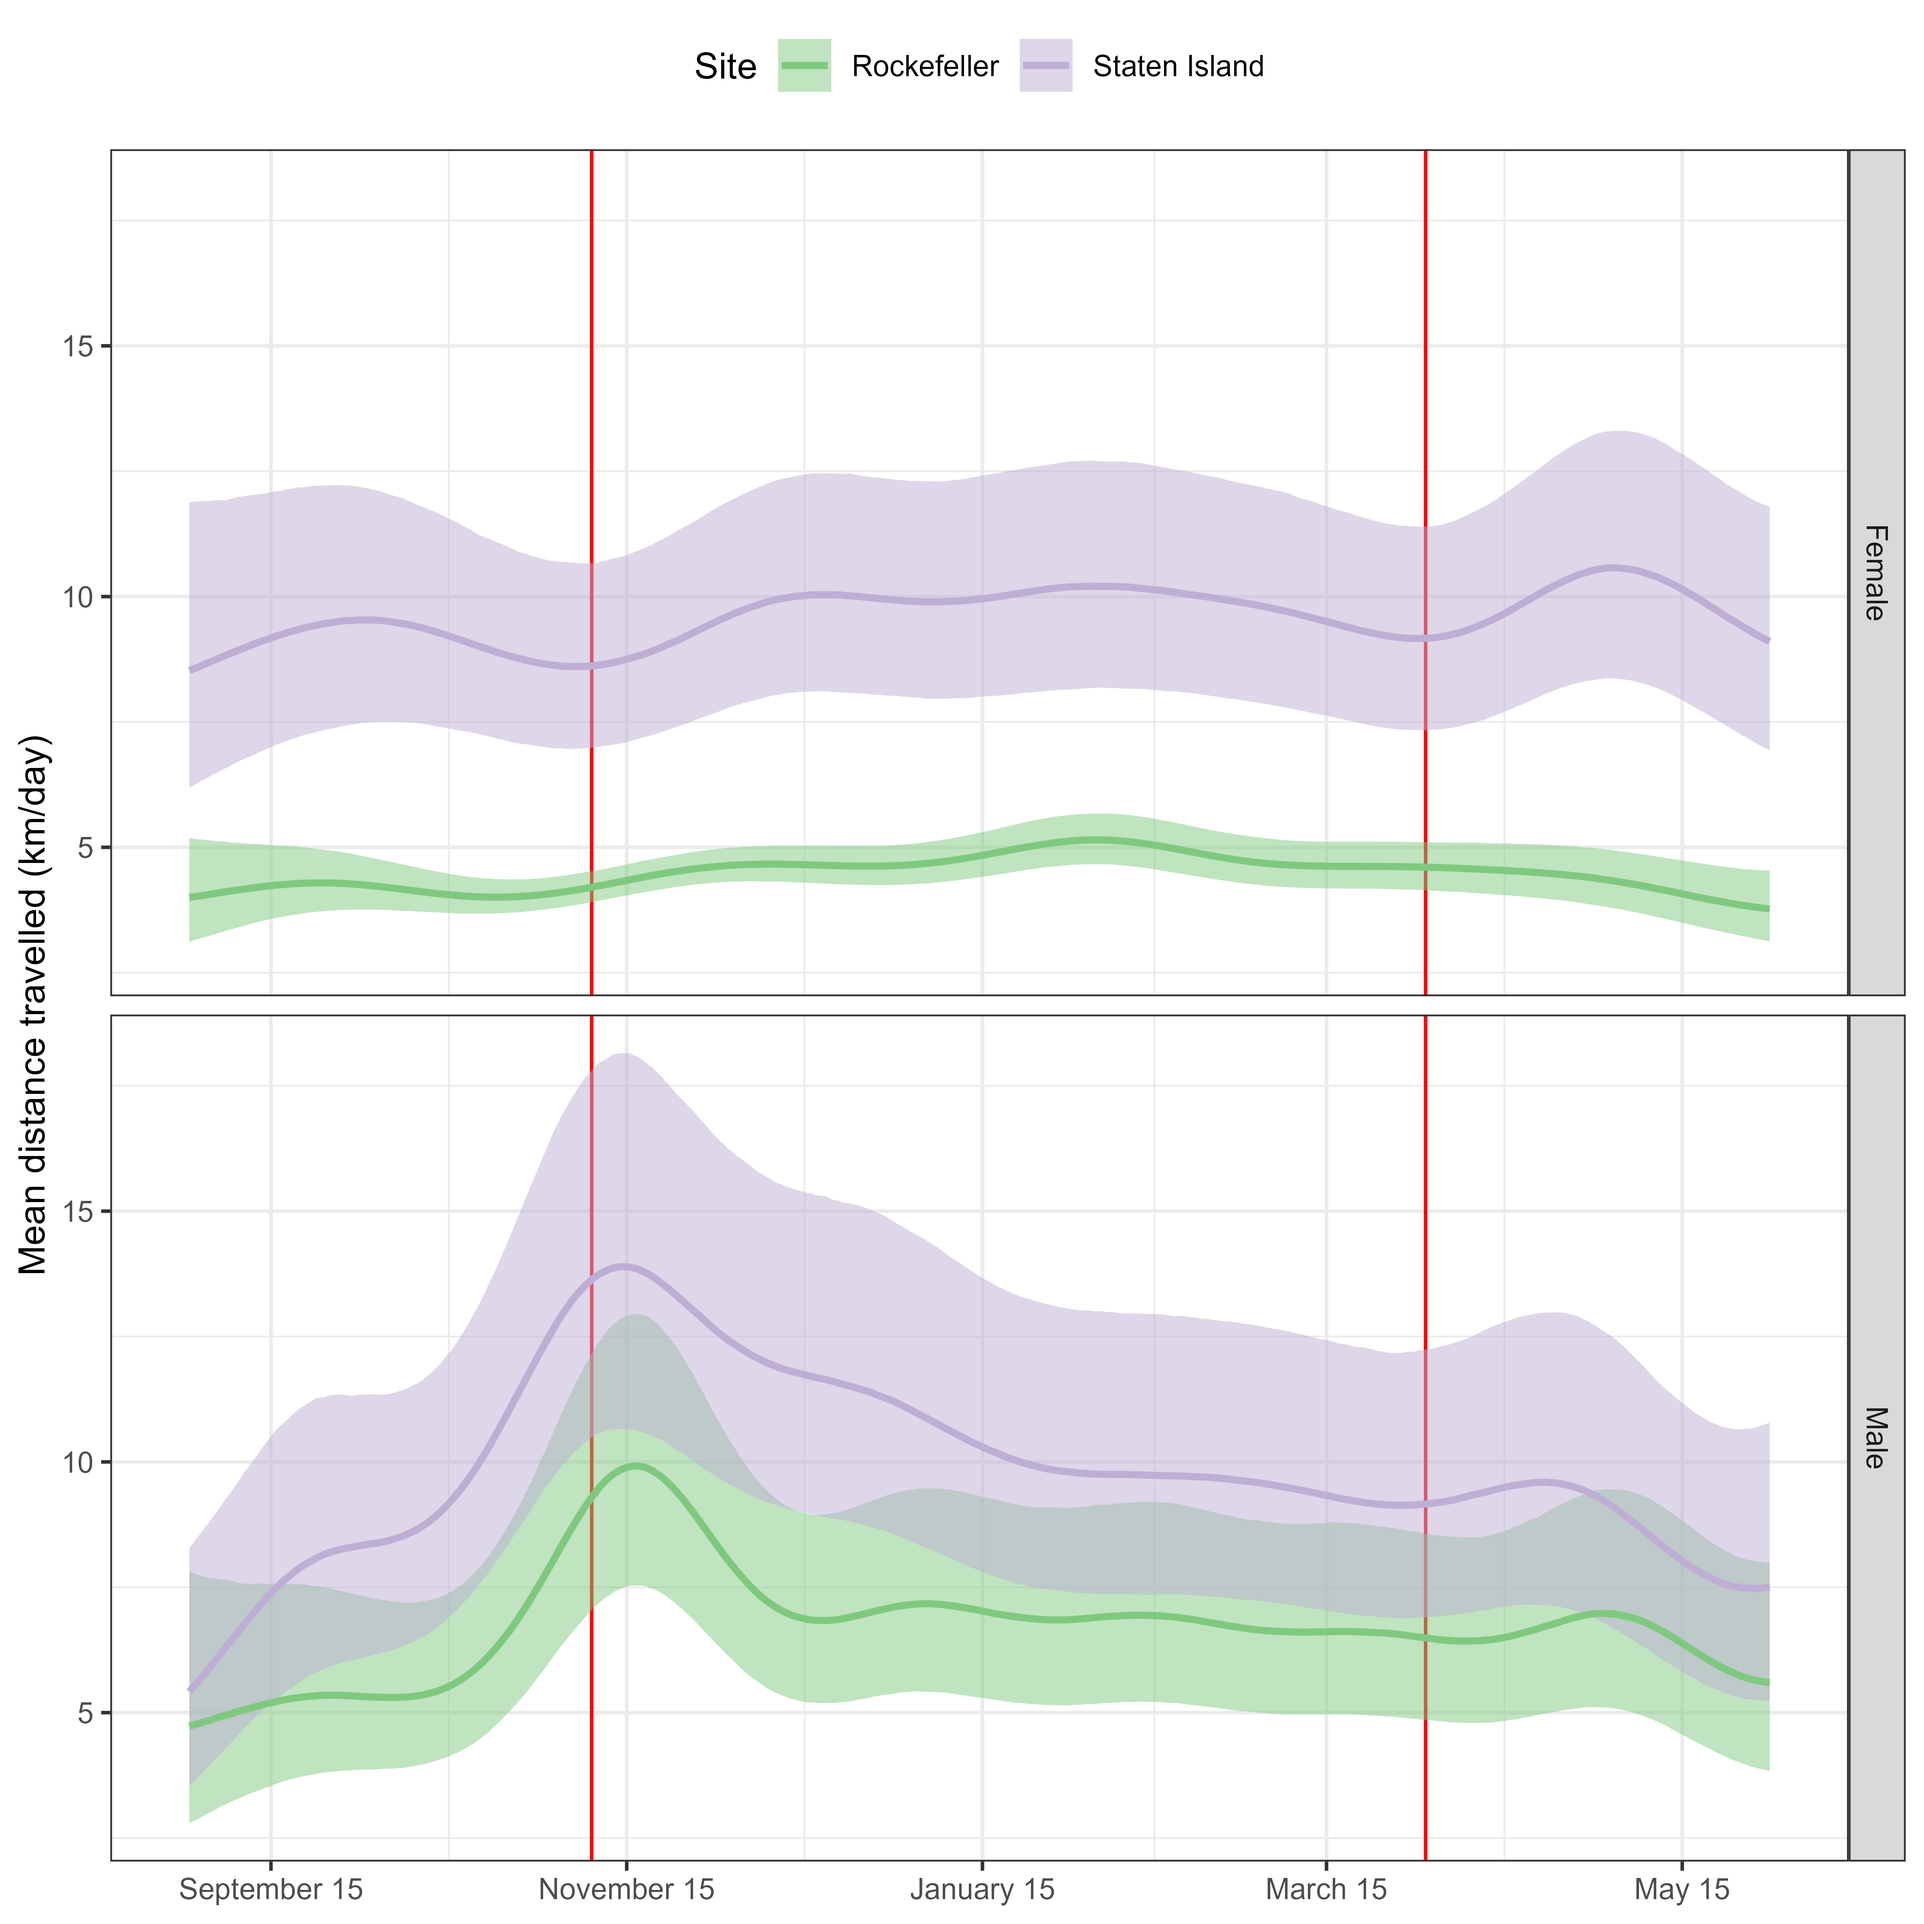
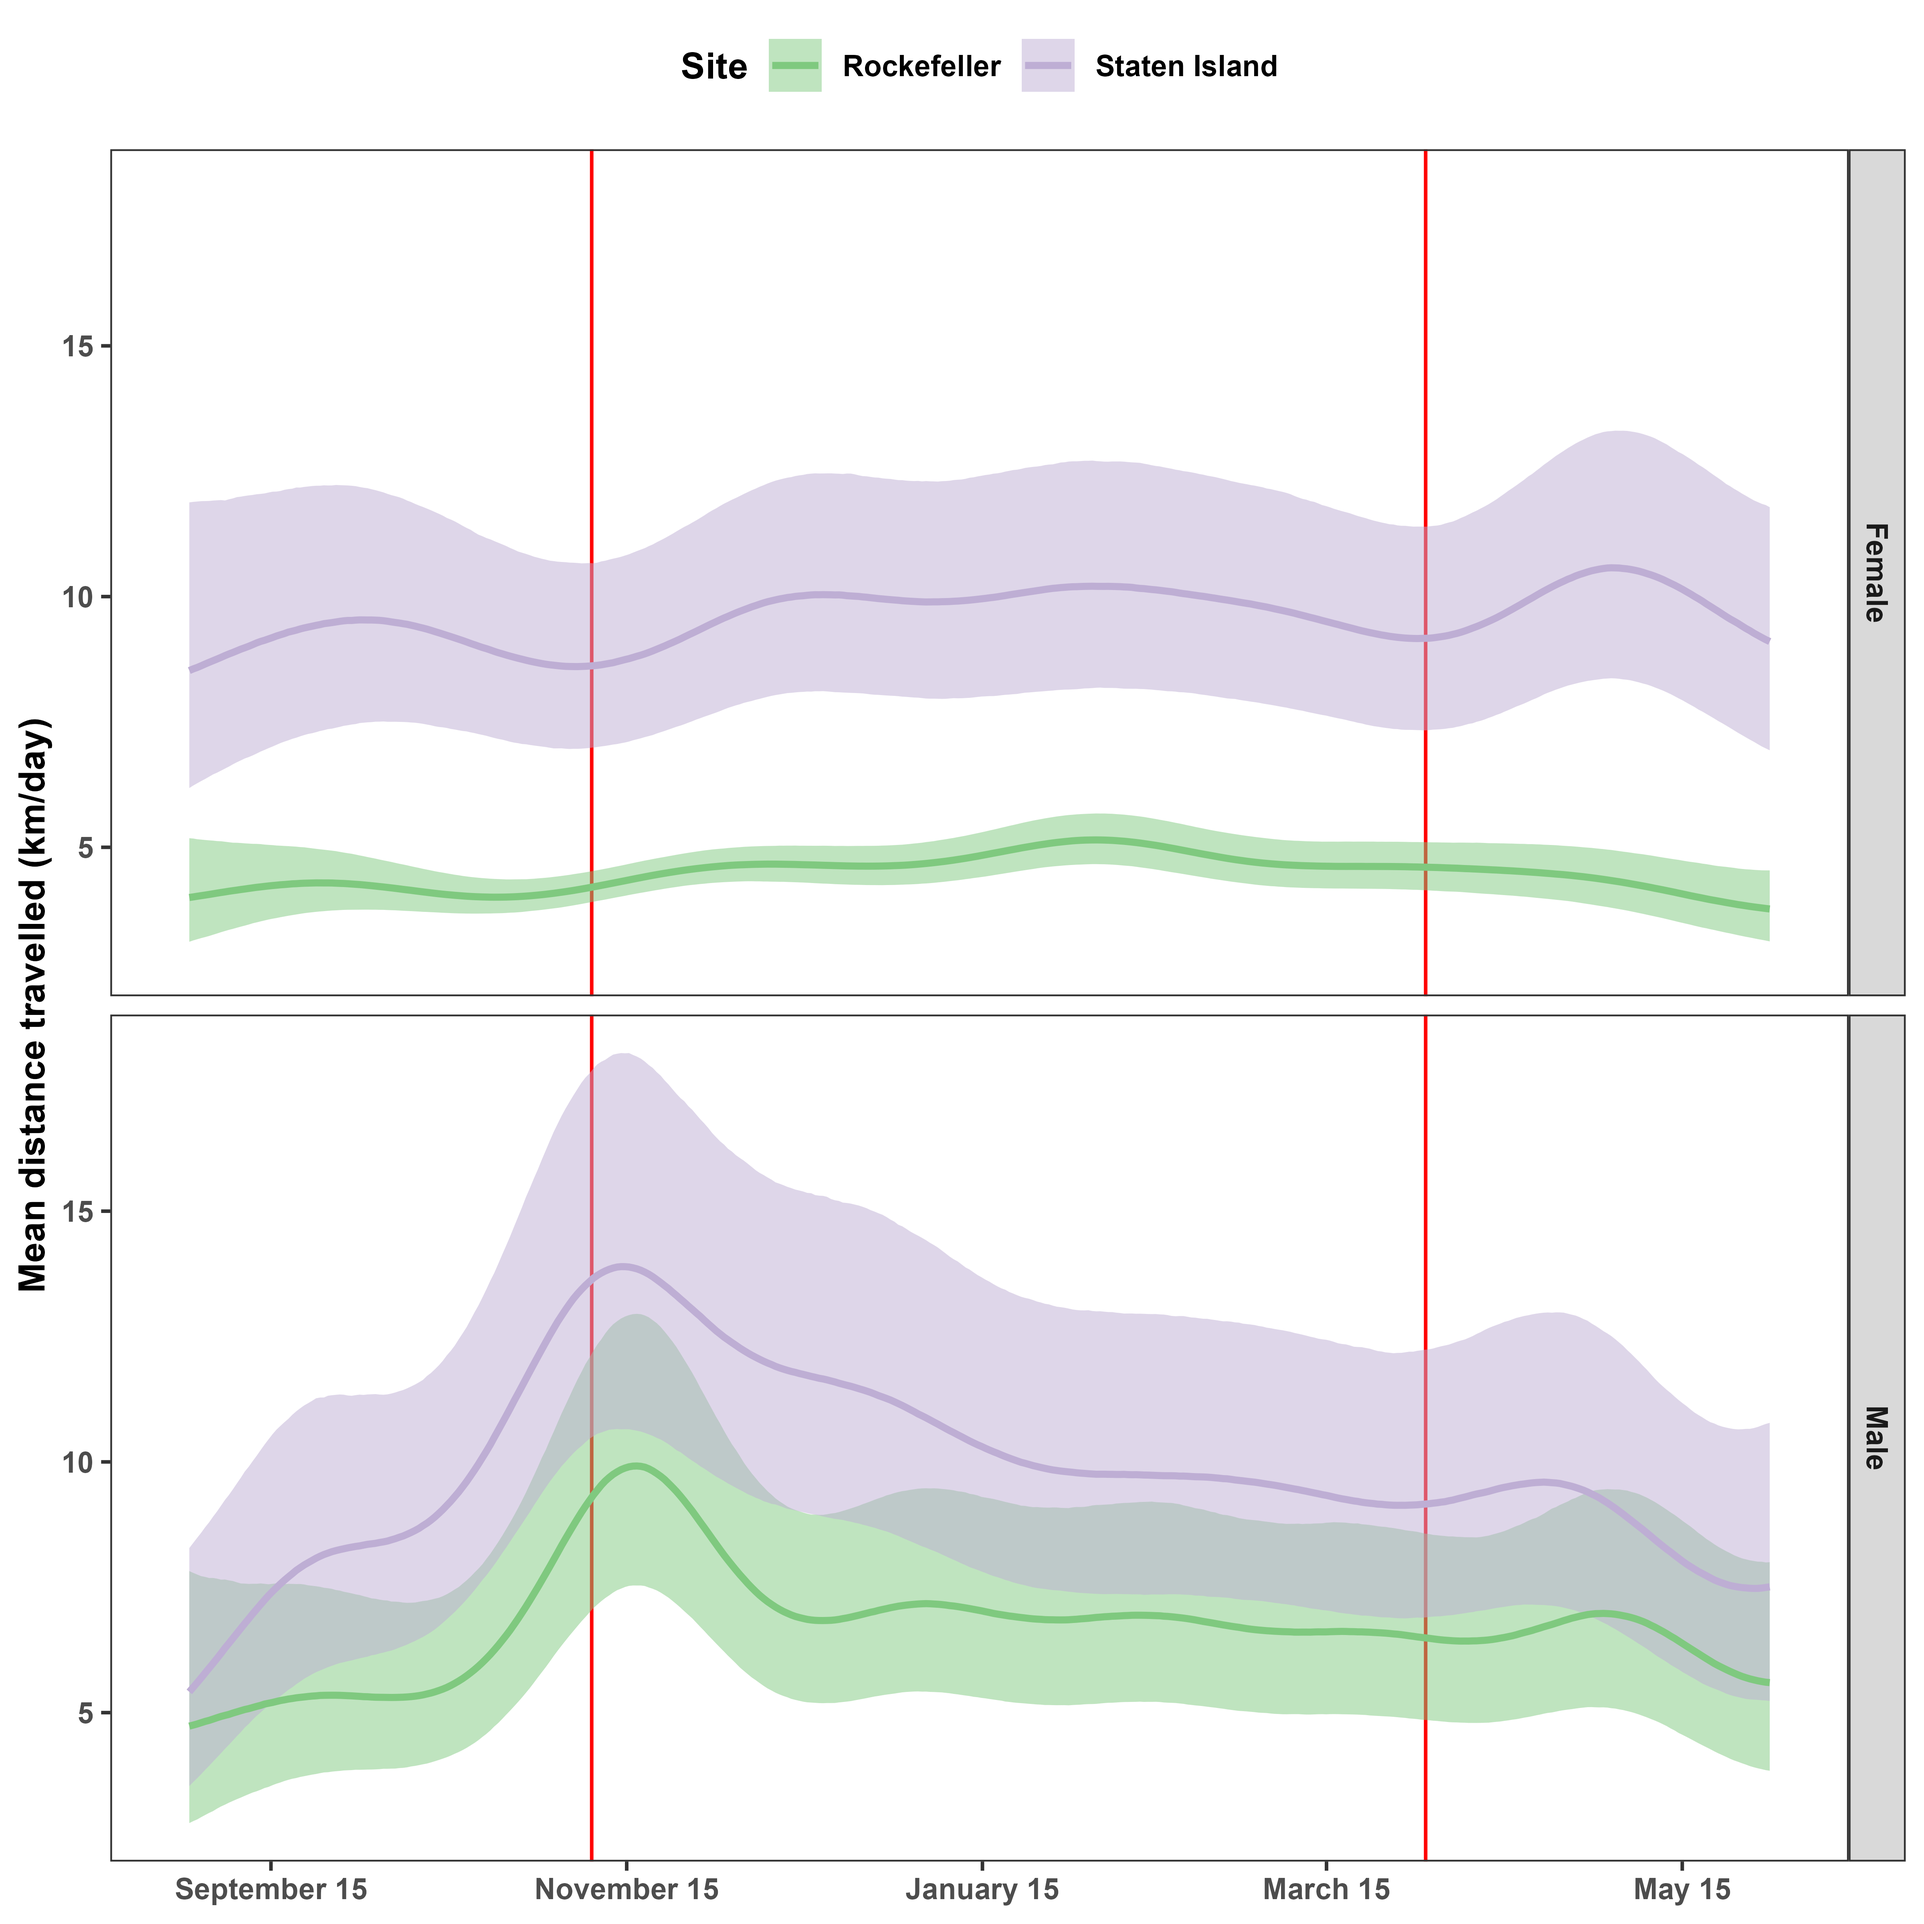
removed some grid lines

diff --git a/to-do.md b/to-do.md
@@ -1,5 +1,6 @@
 to do:
-  - set up MH sampler and use it to calculate CIs for all four analyses (HR, speed, diffusion, density)
+  - remove grid lines in speed figures (use common theme)
+  - accelerometry:
+    - P(state) ~ s(doy) + etc (`ocat`)
+    - N states ~ s(doy) + etc (`poisson`)
   - calculate speed variances for `Mecor`
-  - P(state) ~ s(doy) + etc
-  
